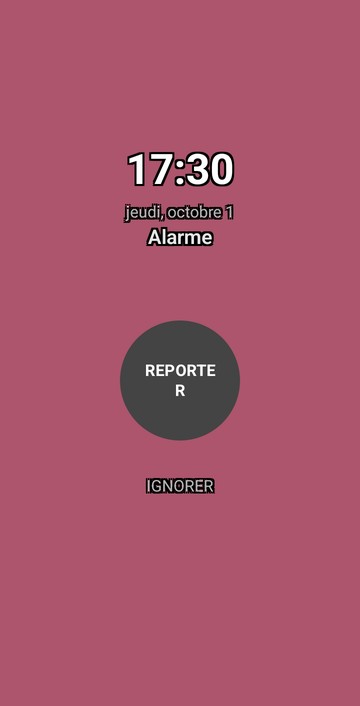
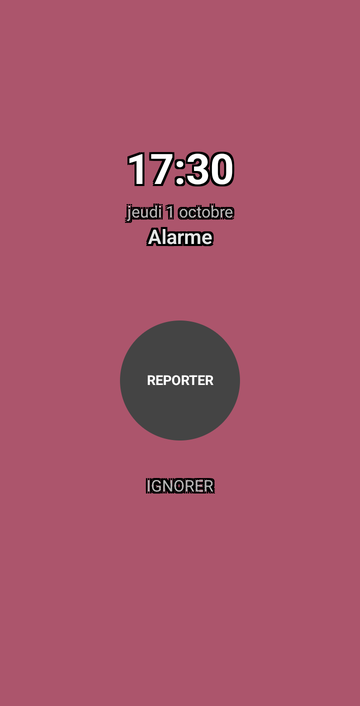
L'écran d'arrêt suit UX-204 dans les huit langues — capture et alt reconstruits
UX-204 (b0435c1/74a7acf, sous-module android-app) corrige la date en ordre
anglais et le bouton de report coupé. Les huit captures ont été reprises depuis
l'APK qui porte ces correctifs, et les alt qui les décrivent réalignés sur ce
qu'elles montrent réellement — vérifié image par image, pas supposé.

  en  Thursday, October 1 → Thursday, 1 October
  fr  jeudi 1er octobre   → jeudi 1 octobre        (REPORTER ne coupe plus)
  de  Donnerstag, 1. Oktober (inchangé) · SCHLIESSEN → AUSSCHALTEN ·
      Abweisbildschirm → Weckbildschirm
  it  giovedì 1 ottobre (inchangé) · CHIUDI → SPEGNI
  nl  donderdag 1 oktober (inchangé) · Alarm → Wekker · STOPPEN → UITZETTEN
  pl  czwartek 1 października → czwartek, 1 października (virgule) ·
      Ekran odrzucenia → Ekran wyłączania · ODRZUĆ → WYŁĄCZ
  pt  quinta-feira, outubro 1 → quinta-feira, 1 de outubro ·
      tela de parar → tela de encerramento · DESCARTAR → ENCERRAR
  es  déjà juste (pantalla de descarte / DESCARTAR ne changent pas ici)

⚠ nl SLUIMEREN n'a PAS bougé, à raison : c'est un msgid distinct (SNOOZE, en
capitales, le bouton) de celui que la passe avait touché (Snooze, la description
d'accessibilité). Vérifié dans le .po avant de ne rien changer.

Trouvé et corrigé en chemin : other_gradle_running() se faisait piéger par une
session voisine qui SONDAIT Gradle avec pgrep -f "GradleWrapperMain" — sa propre
commande de sondage contenait la chaîne cherchée. Deux tentatives de capture ont
[…]

Changed region(s): [[0.3972, 0.4986, 0.6111, 0.5609], [0.3361, 0.2805, 0.6722, 0.3116]]

diff --git a/app/(de)/de/page.tsx b/app/(de)/de/page.tsx
@@ -205,7 +205,7 @@ export default function StartseitePage() {
                                      déjà en anglais. */}
                 <picture>
                   <source srcSet={`/assets/screenshots/de/dismiss-screen.webp 1x, /assets/screenshots/de/dismiss-screen@2x.webp 2x`} type="image/webp" />
-                  <img src="/assets/screenshots/de/dismiss-screen.png" alt="Der Abweisbildschirm von Risetime für einen klingelnden Wecker, randlos gefüllt mit einem verstaubten Rosa aus der Sonnenposition: die Uhrzeit 17:30, das Datum Donnerstag, 1. Oktober, das Wort Wecker, eine große runde Taste SCHLUMMERN, und SCHLIESSEN darunter." width={360} height={706} loading="lazy" decoding="async" />
+                  <img src="/assets/screenshots/de/dismiss-screen.png" alt="Der Weckbildschirm von Risetime für einen klingelnden Wecker, randlos gefüllt mit einem verstaubten Rosa aus der Sonnenposition: die Uhrzeit 17:30, das Datum Donnerstag, 1. Oktober, das Wort Wecker, eine große runde Taste SCHLUMMERN, und AUSSCHALTEN darunter." width={360} height={706} loading="lazy" decoding="async" />
                 </picture>
                 <figcaption>Ein sanftes Aufwecken</figcaption>
               </figure>

diff --git a/app/(it)/it/page.tsx b/app/(it)/it/page.tsx
@@ -198,7 +198,7 @@ export default function HomePage() {
                                      déjà en anglais. */}
                 <picture>
                   <source srcSet={`/assets/screenshots/it/dismiss-screen.webp 1x, /assets/screenshots/it/dismiss-screen@2x.webp 2x`} type="image/webp" />
-                  <img src="/assets/screenshots/it/dismiss-screen.png" alt="La schermata di arresto di Risetime per una sveglia che suona, riempita da un bordo all'altro di un vecchio rosa tratto dalla posizione del sole: l'orario 17:30, la data giovedì 1 ottobre, la parola Sveglia, un grande pulsante circolare POSTICIPA, e CHIUDI sotto." width={360} height={706} loading="lazy" decoding="async" />
+                  <img src="/assets/screenshots/it/dismiss-screen.png" alt="La schermata di arresto di Risetime per una sveglia che suona, riempita da un bordo all'altro di un vecchio rosa tratto dalla posizione del sole: l'orario 17:30, la data giovedì 1 ottobre, la parola Sveglia, un grande pulsante circolare POSTICIPA, e SPEGNI sotto." width={360} height={706} loading="lazy" decoding="async" />
                 </picture>
                 <figcaption>Un risveglio dolce</figcaption>
               </figure>

diff --git a/app/(pt)/pt/page.tsx b/app/(pt)/pt/page.tsx
@@ -198,7 +198,7 @@ export default function PaginaInicial() {
                                      em inglês. */}
                 <picture>
                   <source srcSet={`/assets/screenshots/pt/dismiss-screen.webp 1x, /assets/screenshots/pt/dismiss-screen@2x.webp 2x`} type="image/webp" />
-                  <img src="/assets/screenshots/pt/dismiss-screen.png" alt="A tela de parar do Risetime para um alarme tocando, preenchida de ponta a ponta com um rosa antigo tirado da posição do sol: o horário 17:30, a data quinta-feira, 1º de outubro, a palavra Alarme, um grande botão circular SONECA, e DESCARTAR abaixo." width={360} height={706} loading="lazy" decoding="async" />
+                  <img src="/assets/screenshots/pt/dismiss-screen.png" alt="A tela de encerramento do Risetime para um alarme tocando, preenchida de ponta a ponta com um rosa antigo tirado da posição do sol: o horário 17:30, a data quinta-feira, 1 de outubro, a palavra Alarme, um grande botão circular SONECA, e ENCERRAR abaixo." width={360} height={706} loading="lazy" decoding="async" />
                 </picture>
                 <figcaption>Um despertar suave</figcaption>
               </figure>

diff --git a/app/(fr)/fr/page.tsx b/app/(fr)/fr/page.tsx
@@ -197,7 +197,7 @@ export default function AccueilPage() {
                                      déjà en anglais. */}
                 <picture>
                   <source srcSet={`/assets/screenshots/fr/dismiss-screen.webp 1x, /assets/screenshots/fr/dismiss-screen@2x.webp 2x`} type="image/webp" />
-                  <img src="/assets/screenshots/fr/dismiss-screen.png" alt="L'écran d'arrêt de Risetime pour une alarme qui sonne, rempli d'un bord à l'autre d'un vieux rose tiré de la position du soleil : l'heure 17:30, la date jeudi 1er octobre, le mot Alarme, un grand bouton circulaire REPORTER, et IGNORER en dessous." width={360} height={706} loading="lazy" decoding="async" />
+                  <img src="/assets/screenshots/fr/dismiss-screen.png" alt="L'écran d'arrêt de Risetime pour une alarme qui sonne, rempli d'un bord à l'autre d'un vieux rose tiré de la position du soleil : l'heure 17:30, la date jeudi 1 octobre, le mot Alarme, un grand bouton circulaire REPORTER, et IGNORER en dessous." width={360} height={706} loading="lazy" decoding="async" />
                 </picture>
                 <figcaption>Un réveil en douceur</figcaption>
               </figure>

diff --git a/app/(pl)/pl/page.tsx b/app/(pl)/pl/page.tsx
@@ -186,7 +186,7 @@ export default function StronaGlownaPage() {
                                      déjà en anglais. */}
                 <picture>
                   <source srcSet={`/assets/screenshots/pl/dismiss-screen.webp 1x, /assets/screenshots/pl/dismiss-screen@2x.webp 2x`} type="image/webp" />
-                  <img src="/assets/screenshots/pl/dismiss-screen.png" alt="Ekran odrzucenia Risetime dla dzwoniącego alarmu, wypełniony od brzegu do brzegu przydymionym różem wziętym z pozycji słońca: godzina 17:30, data czwartek 1 października, słowo Alarm, duży okrągły przycisk DRZEMKA i ODRZUĆ poniżej." width={360} height={706} loading="lazy" decoding="async" />
+                  <img src="/assets/screenshots/pl/dismiss-screen.png" alt="Ekran wyłączania Risetime dla dzwoniącego alarmu, wypełniony od brzegu do brzegu przydymionym różem wziętym z pozycji słońca: godzina 17:30, data czwartek, 1 października, słowo Alarm, duży okrągły przycisk DRZEMKA i WYŁĄCZ poniżej." width={360} height={706} loading="lazy" decoding="async" />
                 </picture>
                 <figcaption>Łagodne budzenie</figcaption>
               </figure>

diff --git a/app/(nl)/nl/page.tsx b/app/(nl)/nl/page.tsx
@@ -199,7 +199,7 @@ export default function HomePage() {
                                      déjà en anglais. */}
                 <picture>
                   <source srcSet={`/assets/screenshots/nl/dismiss-screen.webp 1x, /assets/screenshots/nl/dismiss-screen@2x.webp 2x`} type="image/webp" />
-                  <img src="/assets/screenshots/nl/dismiss-screen.png" alt="Het stopscherm van Risetime voor een afgaand alarm, van rand tot rand gevuld met een oudroze kleur ontleend aan de stand van de zon: de tijd 17:30, de datum donderdag 1 oktober, het woord Alarm, een grote ronde knop SLUIMEREN, en STOPPEN eronder." width={360} height={706} loading="lazy" decoding="async" />
+                  <img src="/assets/screenshots/nl/dismiss-screen.png" alt="Het stopscherm van Risetime voor een afgaand alarm, van rand tot rand gevuld met een oudroze kleur ontleend aan de stand van de zon: de tijd 17:30, de datum donderdag 1 oktober, het woord Wekker, een grote ronde knop SLUIMEREN, en UITZETTEN eronder." width={360} height={706} loading="lazy" decoding="async" />
                 </picture>
                 <figcaption>Een zachte wekker</figcaption>
               </figure>

diff --git a/app/(en)/page.tsx b/app/(en)/page.tsx
@@ -240,7 +240,7 @@ export default function HomePage() {
                                      déjà en anglais. */}
                 <picture>
                   <source srcSet={`/assets/screenshots/dismiss-screen.webp 1x, /assets/screenshots/dismiss-screen@2x.webp 2x`} type="image/webp" />
-                  <img src="/assets/screenshots/dismiss-screen.png" alt="Risetime's dismiss screen for a ringing alarm, filled edge to edge with a dusty rose colour taken from the sun's position: the time 17:30, the date Thursday, October 1, the word Alarm, a large circular SNOOZE button, and DISMISS below it." width={360} height={706} loading="lazy" decoding="async" />
+                  <img src="/assets/screenshots/dismiss-screen.png" alt="Risetime's dismiss screen for a ringing alarm, filled edge to edge with a dusty rose colour taken from the sun's position: the time 17:30, the date Thursday, 1 October, the word Alarm, a large circular SNOOZE button, and DISMISS below it." width={360} height={706} loading="lazy" decoding="async" />
                 </picture>
                 <figcaption>Wake gently</figcaption>
               </figure>
